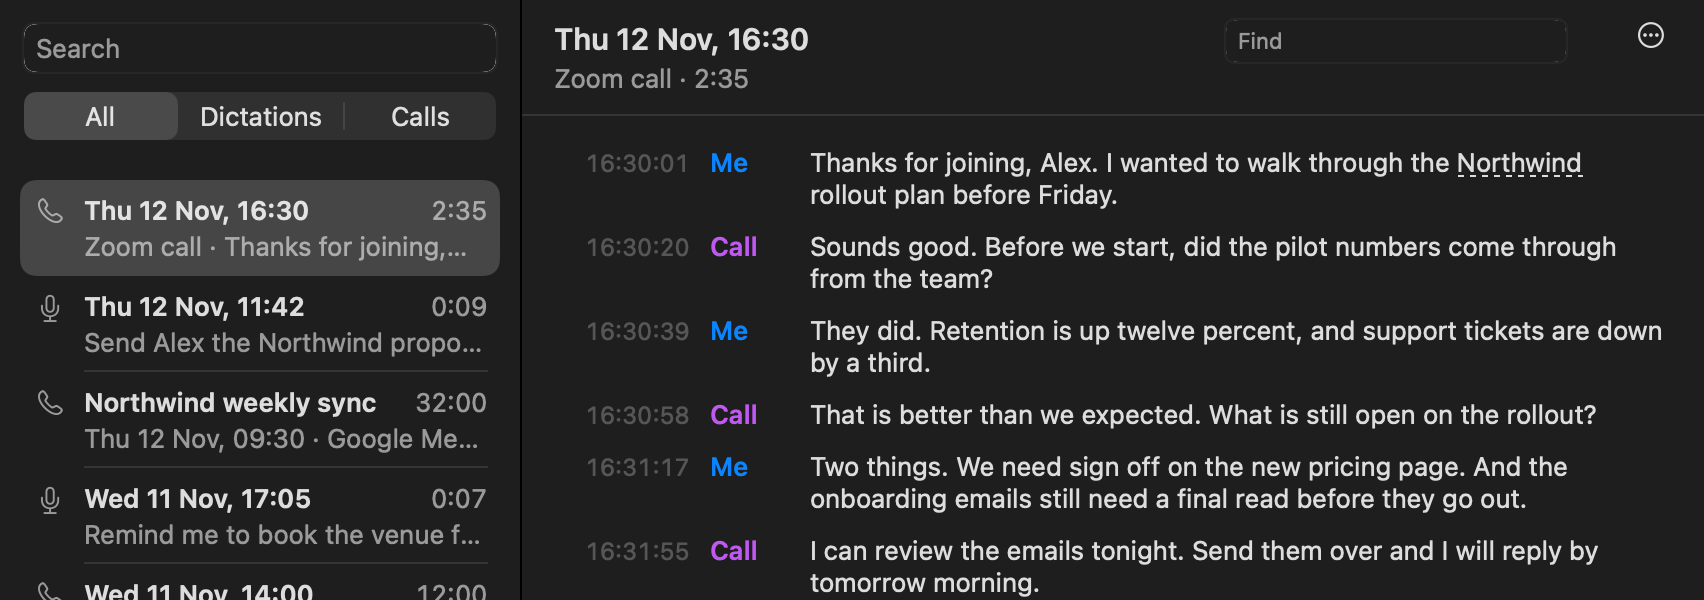
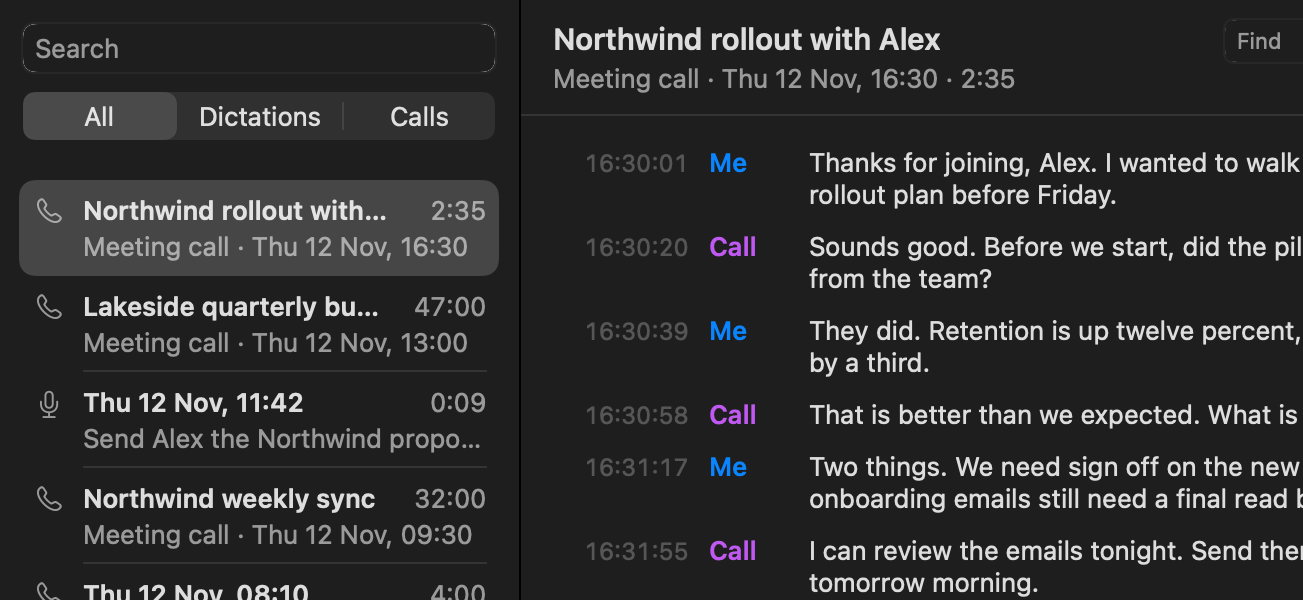
feat(site): calls tile names Blend Mic, history shows list and transcript, radii step down from the nav

diff --git a/site/index.html b/site/index.html
@@ -254,8 +254,8 @@
       </div>
       <div class="card">
         <div class="art well mac" aria-hidden="true"><div class="pill nudge"><img class="dic" src="icon.svg" alt="" width="14" height="14"><span>Record this call?</span><span class="s">Meeting</span><span class="sp"></span><span class="bt">Not now</span><span class="bt">Record</span></div><div class="ml"><span class="w">Me</span><span>Thanks for joining, Alex.</span></div><div class="ml"><span class="w">Call</span><span>Sure. Let's start with the budget.</span></div></div>
-        <h3>You and the call, kept apart</h3>
-        <p>Dictate asks before it records, and no bot joins. It records your microphone and the call's audio separately, so every line is labelled Me or Call.</p>
+        <h3>Calls are transcribed</h3>
+        <p>Dictate notices when you're on a call and offers to transcribe it. It uses <a href="https://spashii.github.io/blend/">Blend Mic</a> to record your voice apart from the call.</p>
       </div>
       <div class="card">
         <div class="art well mac" aria-hidden="true"><div class="toggle-row"><span>Retry unsure segments</span><span class="switch on"></span></div><div class="toggle-row"><span>Fix the text before pasting</span><span class="switch"></span></div></div>
@@ -268,12 +268,12 @@
         <p>Add the names Whisper gets wrong, spelled your way. Dictate suggests more from your corrections.</p>
       </div>
       <div class="card">
-        <div class="art well mac" aria-hidden="true"><div class="tool"><span>search_transcripts</span><span class="switch on"></span></div><div class="tool"><span>wait_for_transcript</span><span class="switch on"></span></div><div class="tool"><span>start_recording</span><span class="switch"></span></div></div>
+        <div class="art well mac shot-row" aria-hidden="true"><div class="tool"><span>search_transcripts</span><span class="switch on"></span></div><div class="tool"><span>wait_for_transcript</span><span class="switch on"></span></div><div class="tool"><span>start_recording</span><span class="switch"></span></div></div>
         <h3>Your agents can read it</h3>
         <p>Claude Code or any MCP client can search your dictations and calls.</p>
       </div>
       <div class="card">
-        <div class="well shot" aria-hidden="true"><picture><source srcset="history-dark.png" media="(prefers-color-scheme: dark)"><img src="history-light.png" alt="" width="1704" height="600" loading="lazy" decoding="async"></picture></div>
+        <div class="well shot" aria-hidden="true"><picture><source srcset="history-dark.png" media="(prefers-color-scheme: dark)"><img src="history-light.png" alt="" width="1303" height="600" loading="lazy" decoding="async"></picture></div>
         <h3>History</h3>
         <p>Every dictation and call in one place, searchable. Rename, correct a word, or play from any line.</p>
       </div>
@@ -375,7 +375,7 @@
   <section class="why measure">
     <h2 class="sr">Why I made it</h2>
     <p>I wanted fast, simple and robust dictation and transcription for calls, running on my Mac without sending data to the cloud. Local transcription on Apple silicon is so good now that there's simply no need to. <a href="https://handy.computer">Handy</a> and <a href="https://github.com/Starmel/OpenSuperWhisper">OpenSuperWhisper</a> are my all-time favorites, and I've learned a lot from them.</p>
-    <p>I spent time using those tools, and built on top of them to solve some challenges I ran into. Sometimes I'd talk and the mic was off, so Dictate shows a level meter and your words as you talk. Sometimes I'd hit Escape by accident and lose what I'd said, so only Dictate's own shortcut stops a recording. And I wanted something lightweight, hackable and customizable, that could also record my online calls and let my agents read them.</p>
+    <p>I spent a lot of time using those tools, and built on top of them to solve some challenges I ran into. Sometimes I'd talk and the mic was off, so Dictate shows a level meter and your words as you talk. Sometimes I'd hit Escape by accident and lose what I'd said, so only Dictate's own shortcut stops a recording. And I wanted something lightweight, hackable and customizable, that could also record my online calls and let my agents read them.</p>
     <p>Along the way I found that Whisper, the model that turns your speech into text, can tell which words it wasn't sure of. Having it listen to just those parts again catches words it got wrong, at almost no extra time. That became Dictate.</p>
   </section>
 

diff --git a/site/style.css b/site/style.css
@@ -17,6 +17,22 @@
   }
 }
 
+/* Corners and insets step down from the outside in, and each container's inset matches its radius:
+   the floating nav (radius 28, inset 28), then cards and frames (24, 24), then buttons (22, 22 from
+   ds/v1.css). Where a capsule sits inside a capsule the gap is the same on every side, so the corners
+   stay concentric: the nav's 36px Download button sits 10px in, and 28 = 18 + 10. */
+:root { --nav-h: 56px; --radius-card: 24px; }
+.nav { width: min(calc(var(--page) + 56px), 100% - 24px); padding: 0 10px 0 28px; }
+@media (max-width: 734px) { .nav { padding-left: 24px; } } /* the cards' inset is 20 on a phone */
+
+/* Download groups at the left edge of a column: the primary button moves left by its own inset, so
+   its label starts on the same line as the heading and the facts under it. On a phone the button
+   fills the row and stays put. */
+@media (min-width: 735px) {
+  .hero .get .actions > .button:first-child,
+  .bottom .get .actions > .button:first-child { margin-left: -22px; }
+}
+
 /* Drawn app UI in native macOS colours. The pill values are sampled from the 0.13.0 renders. */
 .mac {
   --win: #fff; --field: #f5f5f7; --text: #1d1d1f; --text2: #6a6a70; --text3: #86868c; --sep: rgba(0,0,0,.09);
@@ -64,22 +80,22 @@
 .art .ml .w { flex: 0 0 34px; color: var(--text2); }
 .art .tool { display: flex; align-items: center; justify-content: space-between; gap: 8px; padding: 6px 10px; border-radius: 8px; background: var(--app-control); box-shadow: var(--app-ring); font: 13px var(--mono); }
 
-/* History card: the Me and Call transcript lines of the real History window (a 1704 by 600 capture),
-   cropped to x 694 to 1690 starting at y 128. Below 735px the crop runs to y 530 and shows all six
-   entries whole at a fixed ratio. From 735px the well is 144px tall like its neighbour and shows the
-   first four entries (text y 152 to 428) in a crop to y 452, 24px of capture above and below the text.
-   The crop is sized by percentages of the well width, so it is identical at every width and at most
-   141px tall, which leaves no line cut on any side. The well takes the capture's own background so the
-   spare height reads as padding. The frame's hairline is drawn over the well so it stays visible. */
-.well.shot { position: relative; height: auto; min-height: 0; aspect-ratio: 996 / 402; overflow: hidden; background: #fff; }
-.well.shot picture { display: block; }
-.well.shot img { display: block; width: 171.08%; max-width: none; height: auto; margin: -12.85% 0 0 -69.68%; }
+/* History card: the real History window of Dictate 0.14 without its sidebar, the list of calls on the
+   left and the open call's transcript on the right (a 1303 by 600 crop of a 2120 by 1360 capture). At
+   the card's width the whole window would set its text near 7px, so the crop ends inside the transcript
+   and fades out to the right and at the bottom. The well takes the capture's own background so the
+   fade reads as the window going on. From 735px the other well in its row takes the same ratio, so the
+   two headings sit level. The frame's hairline is drawn over the well so it stays visible. */
+.well.shot { position: relative; height: auto; aspect-ratio: 1303 / 600; overflow: hidden; background: #fff; }
+.well.shot picture, .well.shot img { display: block; width: 100%; height: auto; }
+.well.shot img {
+  -webkit-mask-image: linear-gradient(to right, #000 82%, transparent), linear-gradient(to bottom, #000 88%, transparent);
+  mask-image: linear-gradient(to right, #000 82%, transparent), linear-gradient(to bottom, #000 88%, transparent);
+  -webkit-mask-composite: source-in; mask-composite: intersect;
+}
 .well.shot::after { content: ""; position: absolute; inset: 0; border-radius: inherit; box-shadow: inset 0 0 0 1px var(--hairline); pointer-events: none; }
 @media (prefers-color-scheme: dark) { .well.shot { background: #1e1e1e; } }
-@media (min-width: 735px) {
-  .well.shot { height: 144px; aspect-ratio: auto; display: flex; align-items: center; }
-  .well.shot picture { width: 100%; aspect-ratio: 996 / 324; overflow: hidden; }
-}
+@media (min-width: 735px) { .well.shot-row { height: auto; aspect-ratio: 1303 / 600; } }
 
 /* Hero demo. A 420 by 500 scene of the top of a Mac screen, scaled to the column by the script so
    it reads the same at every width. Every window stays sharp; the camera leans in on the pills at
